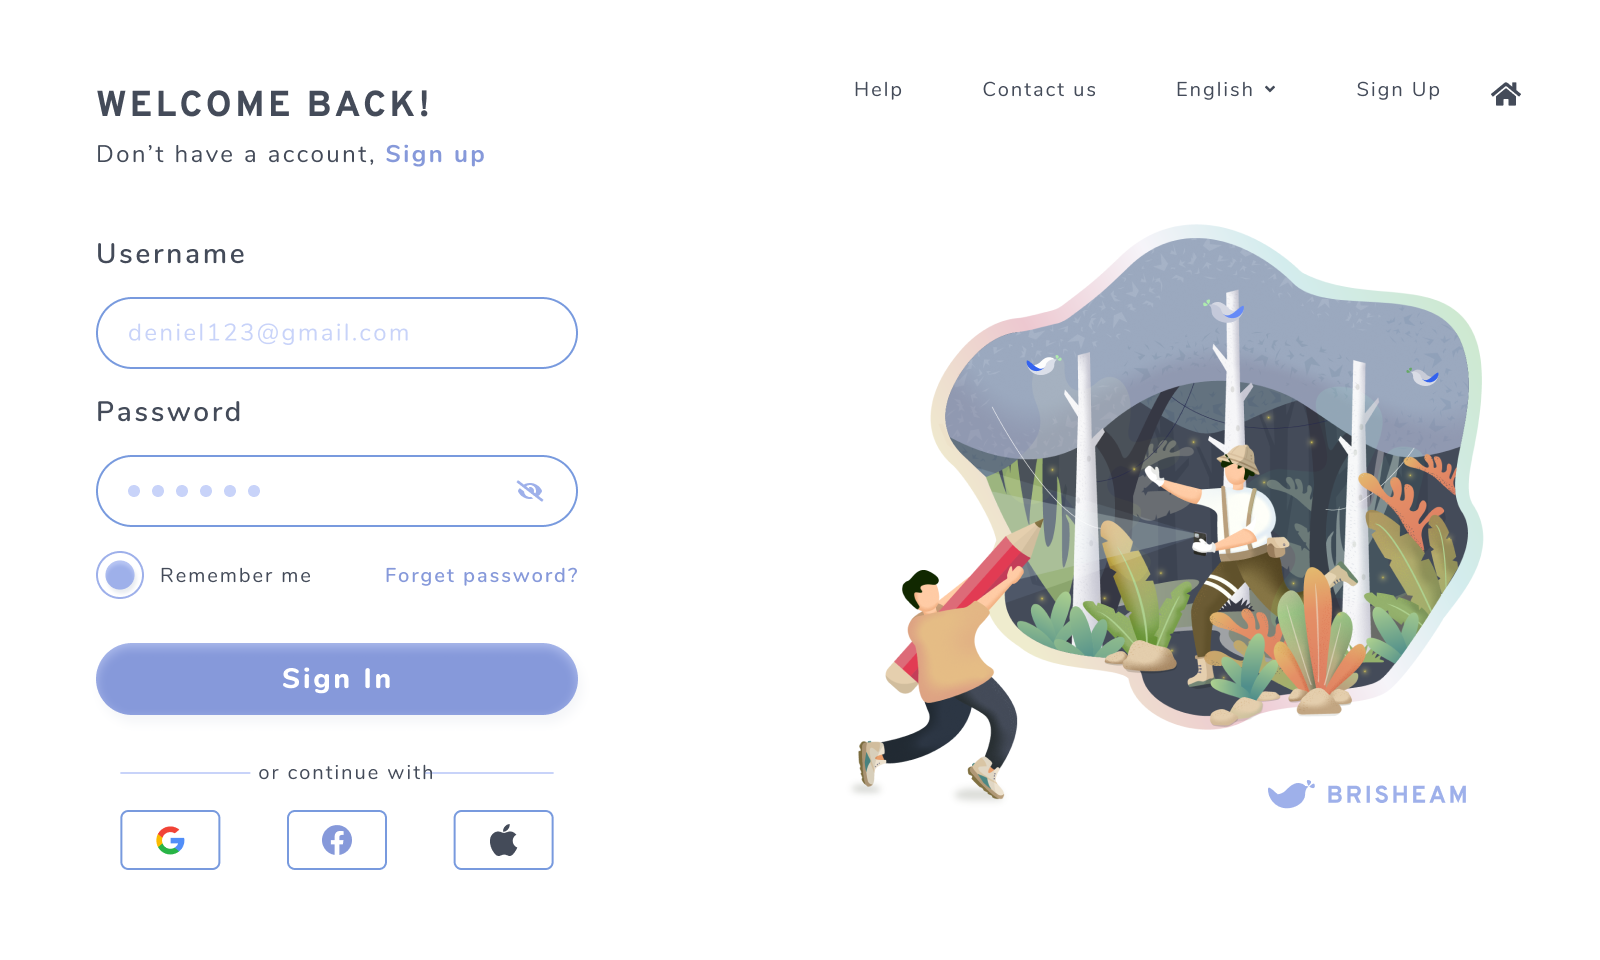
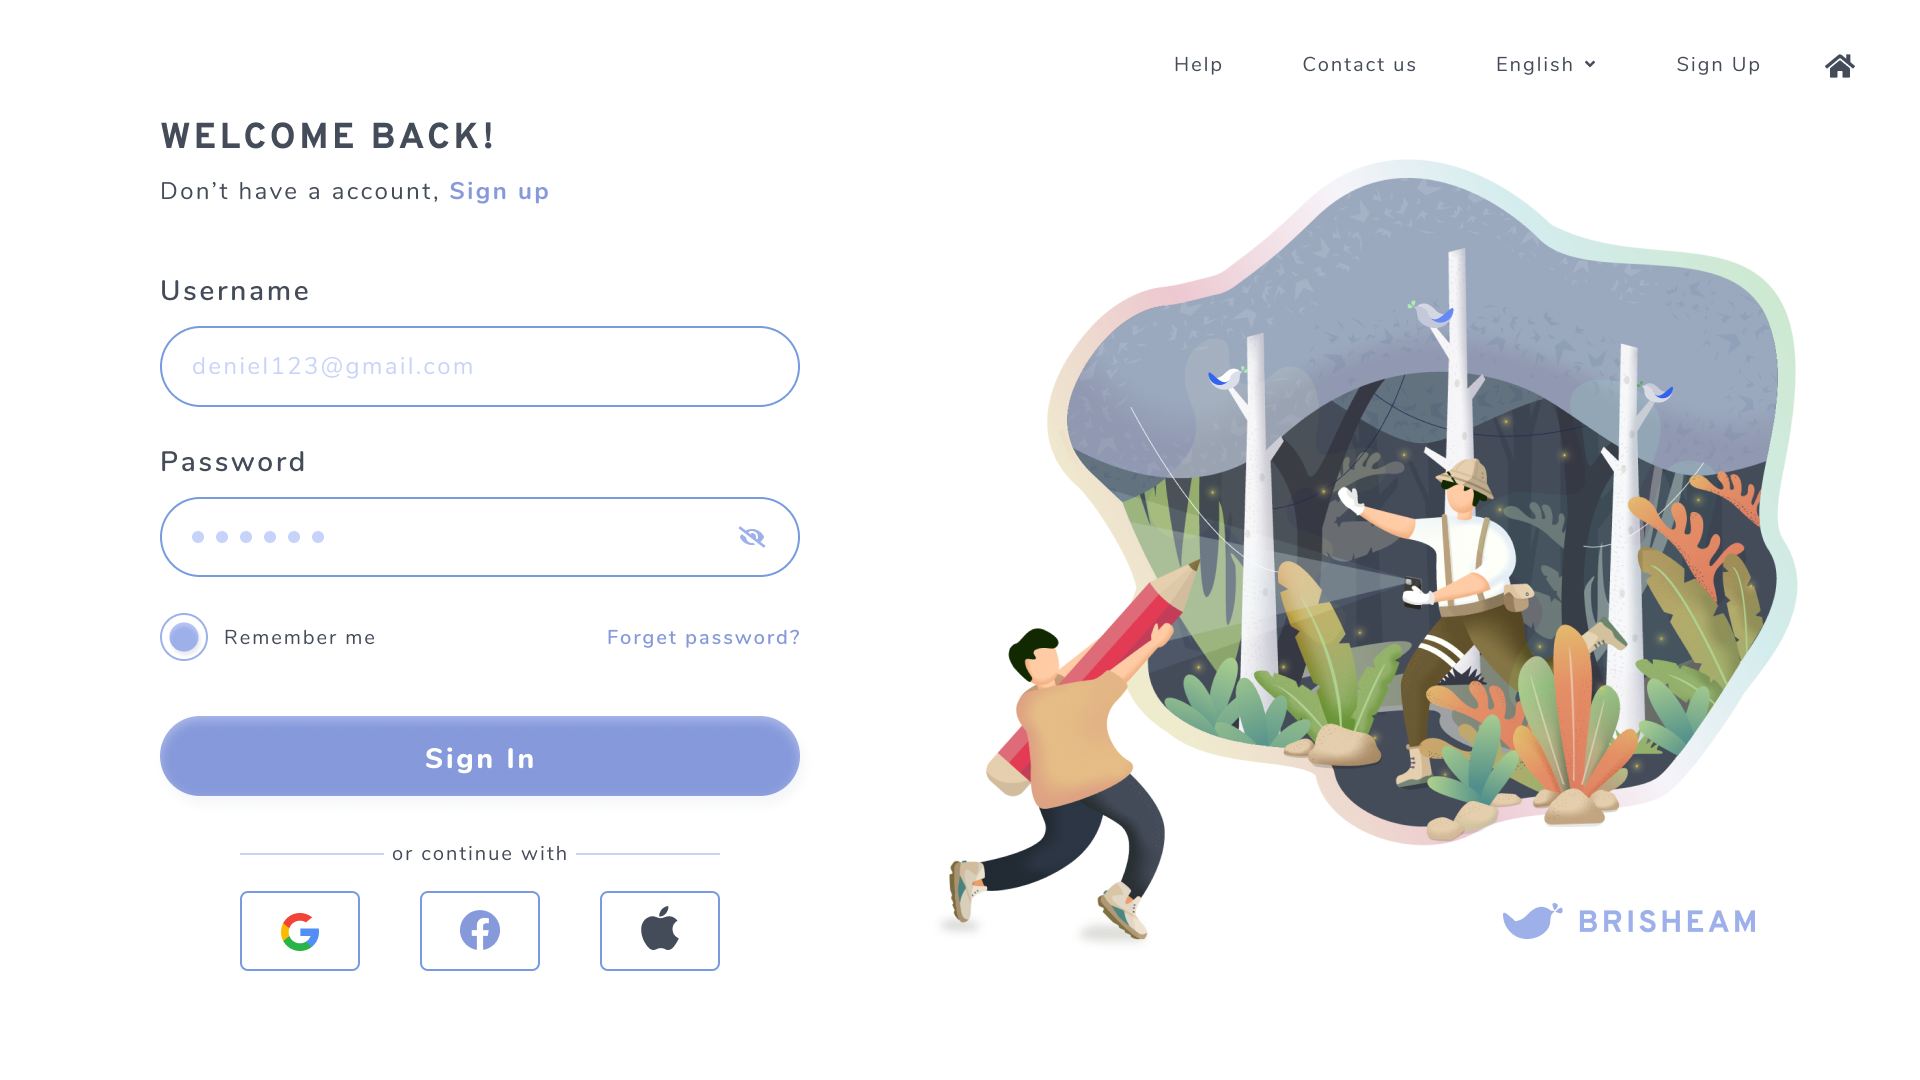
Brisheam Login Page

diff --git a/src/App.module.css b/src/App.module.css
@@ -23,31 +23,17 @@ body, html {
     position: static;
     top: 0;
     right: 0;
-    padding: 1.3em 1.6em;
+    padding: 1.1em 0 1.2em;
     display: flex;
     justify-content: space-between;
     width: 100%;
     z-index: 99;
 }
 
-.header .head {
+
+
+.header .ico {
     margin-right: 15em;
-}
-
-.header .head .welcome {
-    color: black;
-    font-size: 1.6em;
-    font-weight: 500;
-    text-transform: uppercase;
-}
-
-.head .account {
-    color: lightslategray;
-    font-size: 1.1em;
-}
-
-.account a {
-    color: lightskyblue;
 }
 
 .list {
@@ -78,8 +64,8 @@ body, html {
 }
 
 .header .img {
-    width: 36px;
-    height: 40px;
+    width: 45px;
+    height: 35px;
     margin-left: 2em;
 }
 
@@ -89,14 +75,35 @@ body, html {
 }
 
 .form {
-    padding: 1.5em 1.6em;
+    /* padding: 1em 1em; */
     display: flex;
     justify-content: space-between;
+}
+
+.form .head {
+    margin-bottom: 1.4em;
+}
+
+.form .head .welcome {
+    color: black;
+    font-size: 1.6em;
+    font-weight: 500;
+    text-transform: uppercase;
+}
+
+.head .account {
+    color: lightslategray;
+    font-size: 1.1em;
+}
+
+.account a {
+    color: lightskyblue;
 }
 
 .form .details {
     display: flex;
     flex-direction: column;
+    margin-top: 1.2em;
 }
 
 .form form {
@@ -138,13 +145,65 @@ form .inputdetails{
     font-size: .8em;
 }
 
-.form .remember div {
+.remember .co {
+    position: relative;
     display: flex;
-    gap: 4px;
-    accent-color: aqua;
+    padding-left: 2.5em;
+    cursor: pointer;
+    font-size: 1.2em;
+    -webkit-user-select: none;
+    -moz-user-select: none;
+    -ms-user-select: none;
+    user-select: none;
 }
 
-.form .remember a {
+.co input {
+    position: absolute;
+    opacity: 0;
+    cursor: pointer;
+}
+
+.co .checkmark  {
+    position: absolute;
+    top: -.15em;
+    left: 0;
+    height: 30px;
+    width: 30px;
+    background-color: transparent;
+    border-radius: 50%;
+    border: 1px solid rgb(159, 159, 230);
+}
+
+.co:hover input ~ .checkmark {
+    background-color: hsl(0, 0%, 100%);
+}
+
+.co input:checked ~ .checkmark {
+    background: whitesmoke;
+    border: 1px solid rgb(159, 159, 230);
+}
+
+.checkmark::after {
+    content: "";
+    position: absolute;
+    display: none;
+}
+
+.co input:checked ~ .checkmark::after {
+    display: block;
+}
+
+.co .checkmark::after {
+    top: 5px;
+    left: 5px;
+    width: 18px;
+    height: 18px;
+    border-radius: 50%;
+    background:rgb(159, 159, 230);
+    
+}
+
+.remember .forget a {
     text-decoration: none;
     color:  rgb(159, 159, 230);
 }
@@ -220,8 +279,8 @@ form .inputdetails{
 .fbicon img {
     position: absolute;
     width: 53%;
+    height: 70%;
     color: transparent;
-    height: 60%;
     top: 50%;
     left: 50%;
     transform: translate(-50%, -50%);
@@ -248,8 +307,8 @@ form .inputdetails{
 }
 
 .form .im {
-    width: 500px;
-    height: 400px;
+    width: 450px;
+    height: 360px;
 }
 
 .im img {

diff --git a/src/Components/Form.jsx b/src/Components/Form.jsx
@@ -1,14 +1,18 @@
 import style from '../App.module.css'
-import googlelogo from '../Images/google icon.webp'
-import fblogo from '../Images/facebook-logo-on-transparent-isolated-background-free-vector.jpg'
-import applelogo from '../Images/apple-logo-iphone-clip-art-apple-thumbnail.jpg'
-import imgicon from '../Images/image.png'
+import googlelogo from '../Images/Frame 18.png'
+import fblogo from '../Images/facebook.png'
+import applelogo from '../Images/apple.png'
+import imgicon from '../Images/Image.png'
 
 const Form = () => {
 
     return (
         <div className={style.form}>
             <div className={style.details}>
+                <div className={style.head}>
+                    <p className={style.welcome}>Welcome Back!</p>
+                    <p className={style.account}>Dont have an account, <a href="">Sign Up</a></p>
+                </div>
                 <form action="">
                     <div className={style.inputdetails}>
                         <label htmlFor="">Username</label>
@@ -21,12 +25,17 @@ const Form = () => {
                     </div>
 
                     <div className={style.remember}>
-                        <div>
-                            <input type="radio" />
-                            <label htmlFor="">Remember Me</label>
-                        </div>
 
-                        <a href="">Forget password?</a>
+                        <label className={style.co}> Remeber Me
+                            <input type="radio" />
+                            <span className={style.checkmark}></span>
+
+                        </label>
+
+                        <div className={style.forget}>
+                            <a href="">Forget password?</a>
+
+                        </div>
                     </div>
 
                     <input type="button" value={'Sign in'} />
@@ -54,10 +63,10 @@ const Form = () => {
 
                 </div>
             </div>
-
             <div className={style.im}>
                 <img src={imgicon} alt="" />
             </div>
+
         </div>
     )
 }

diff --git a/src/Components/Header.jsx b/src/Components/Header.jsx
@@ -1,12 +1,13 @@
-import houseicon from '../Images/house.png'
+import houseicon from '../Images/home.png'
+import icon from '../Images/Vector.png'
 import style from '../App.module.css'
 const Header = () => {
     return (
         <div className={style.header}>
-            <div className={style.head}>
-                <p className={style.welcome}>Welcome Back!</p>
-                <p className={style.account}>Dont have an account, <a href="">Sign Up</a></p>                
-            </div>
+           <div className={style.ico}>
+            <img src={icon} alt="" />
+
+           </div>
 
             <nav className={style.list}>
                 <li><a href="">Help</a></li>
@@ -20,11 +21,11 @@ const Header = () => {
                 </li>
                 <li><a href="">Sign Up</a></li>
             </nav>
-
             <div className={style.img}>
                 <img src={houseicon} alt="" />
 
             </div>
+
            
         </div>
 
